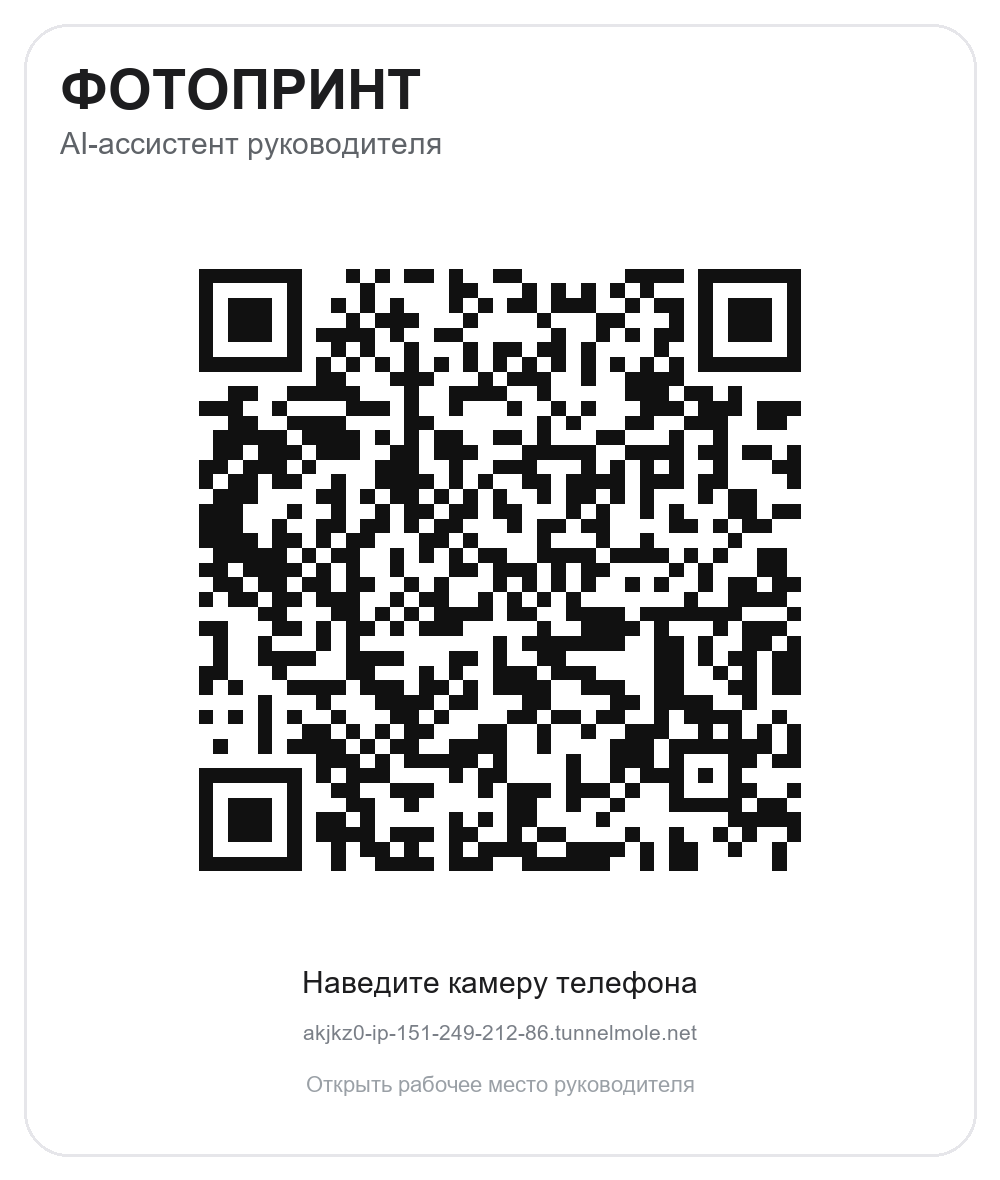
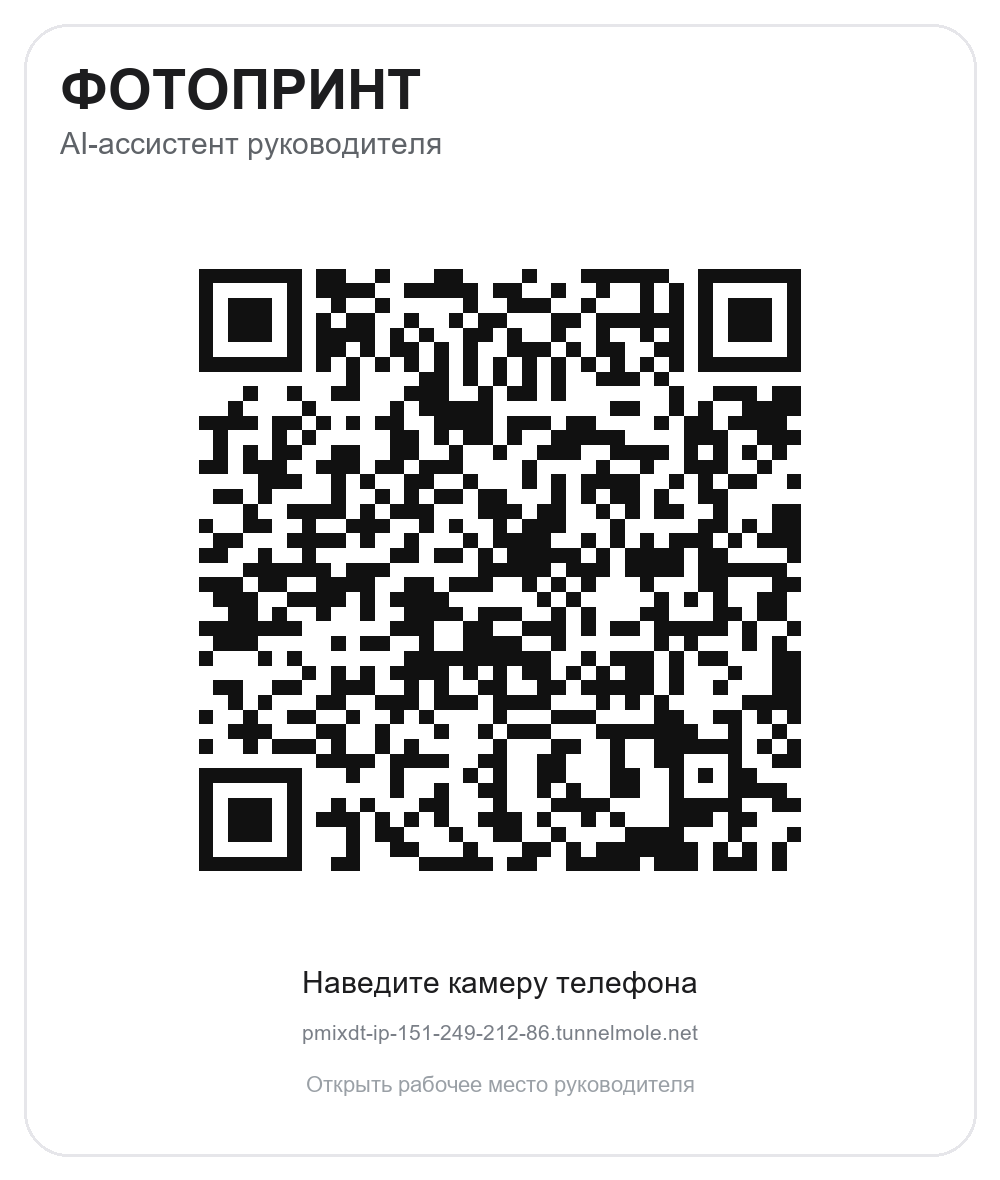
Add detached demo host and stop script

Changed region(s): [[0.186, 0.2136, 0.806, 0.7627], [0.31, 0.8542, 0.682, 0.8847]]

diff --git a/README.md b/README.md
@@ -119,6 +119,28 @@ HTTPS-туннель Tunnelmole и обновляет QR. Если порт 8000
 powershell -ExecutionPolicy Bypass -File scripts\stop_demo.ps1
 ```
 
+### Запуск, независимый от ассистента
+
+Если ноутбук будет стоять перед жюри и вы закроете ассистента/редактор, запускайте демо так:
+
+```powershell
+powershell -ExecutionPolicy Bypass -File scripts\start_demo_detached.ps1
+```
+
+Сервер и туннель стартуют отдельными процессами через WMI — они не являются детьми
+ассистента, поэтому его закрытие их не останавливает. Дальше за ними следит
+`scripts/demo_host.ps1`: если FastAPI упадёт, он поднимется сам примерно за 10 секунд;
+если упадёт супервизор туннеля, он будет перезапущен, адрес и QR обновятся автоматически.
+
+Остановить:
+
+```powershell
+powershell -ExecutionPolicy Bypass -File scripts\stop_demo.ps1
+```
+
+Ноутбук не должен уходить в сон: при sleep туннель отваливается и адрес меняется
+(QR перегенерируется сам, но показывать нужно уже новый файл).
+
 ### Публичная ссылка без одной Wi-Fi сети
 
 ```powershell
